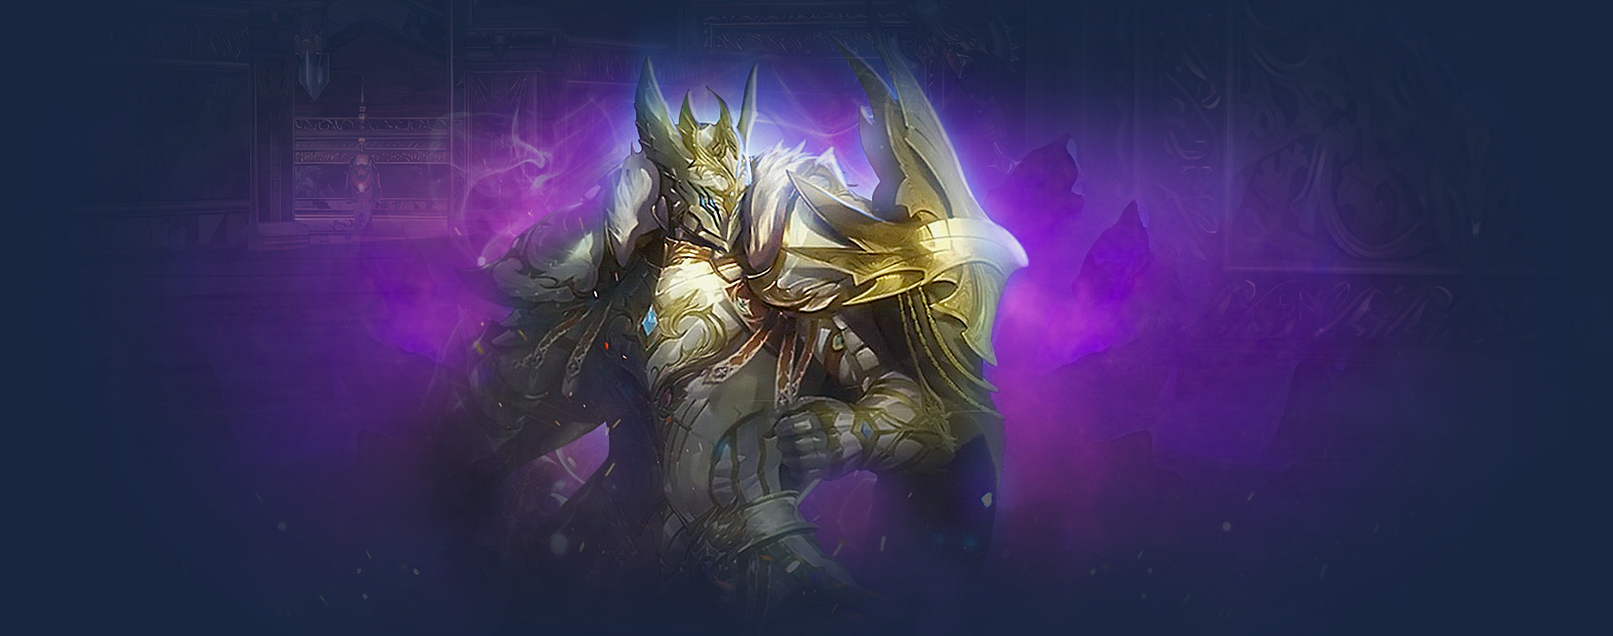
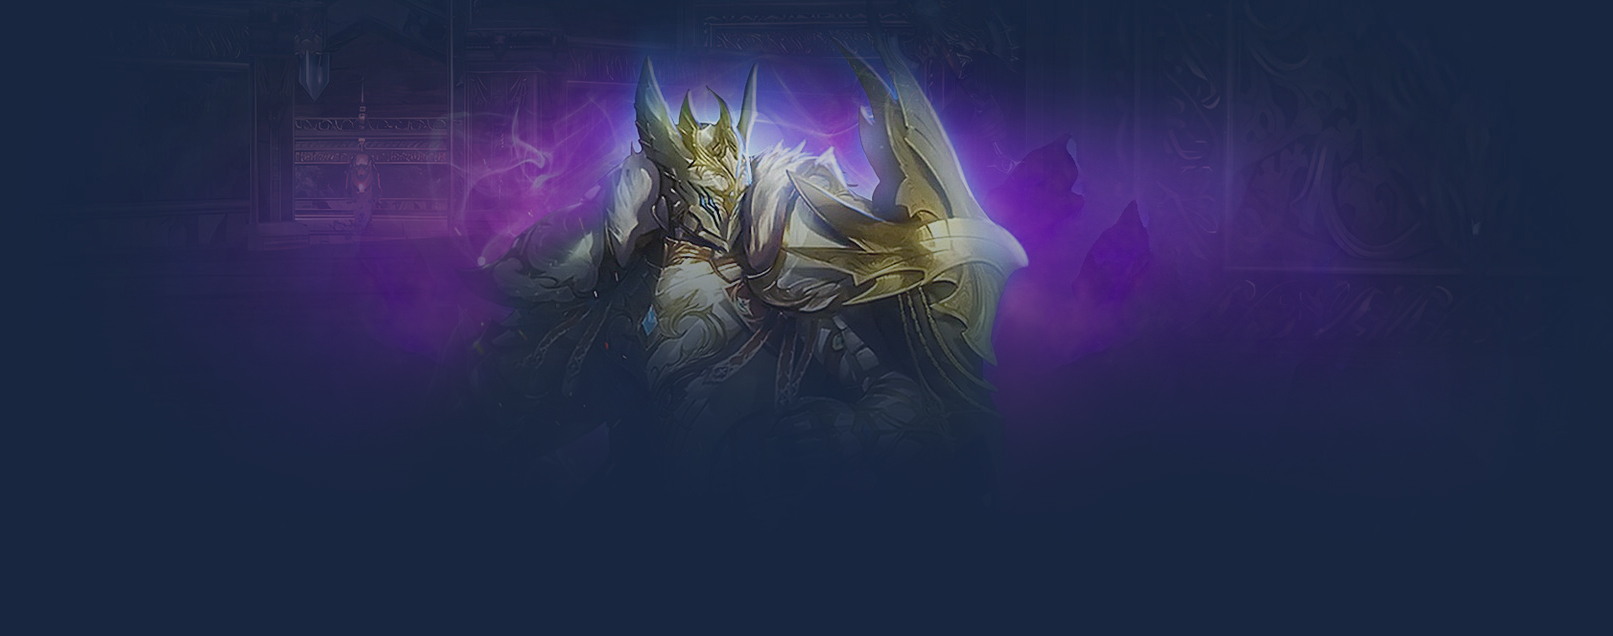
height fixes

Changed region(s): [[0.155, 0.2091, 0.8369, 0.8962], [0.341, 0.8365, 0.372, 0.8664]]

diff --git a/assets/css/style.min.css b/assets/css/style.min.css
@@ -3906,8 +3906,40 @@ body {
 }
 
 @media (min-width: 2100px) {
+    .header__logos {
+        grid-gap: 60px !important;
+    }
+    .header-divider {
+        max-width: 940px;
+    }
+    .header__logos-item {
+        max-width: 440px;
+    }
+    .header__title small {
+        font-size: 32px;
+    }
+    .header-center {
+        grid-gap: 54px;
+        padding: 28px 0;
+    }
+    .servers {
+        padding-top: 0 !important;
+    }
+    .header-gifts {
+        font-size: 24px !important;
+    }
+    .header__title h1 {
+        font-size: 64px;
+    }
+    .header__info small {
+        font-size: 38px;
+    }
+    .header__info h2 {
+        font-size: 44px;
+    }
     .header {
-        min-height: 1100px;
+        min-height: 100dvh;
+        padding-top: 280px;
     }
     .servers .section__bg {
         top: -200px;
@@ -4817,7 +4849,7 @@ button {
 
 @media (min-width: 2200px) {
     .header-rectangle {
-        max-width: 1200px !important;
+        max-width: 1400px !important;
     }
 }
 
